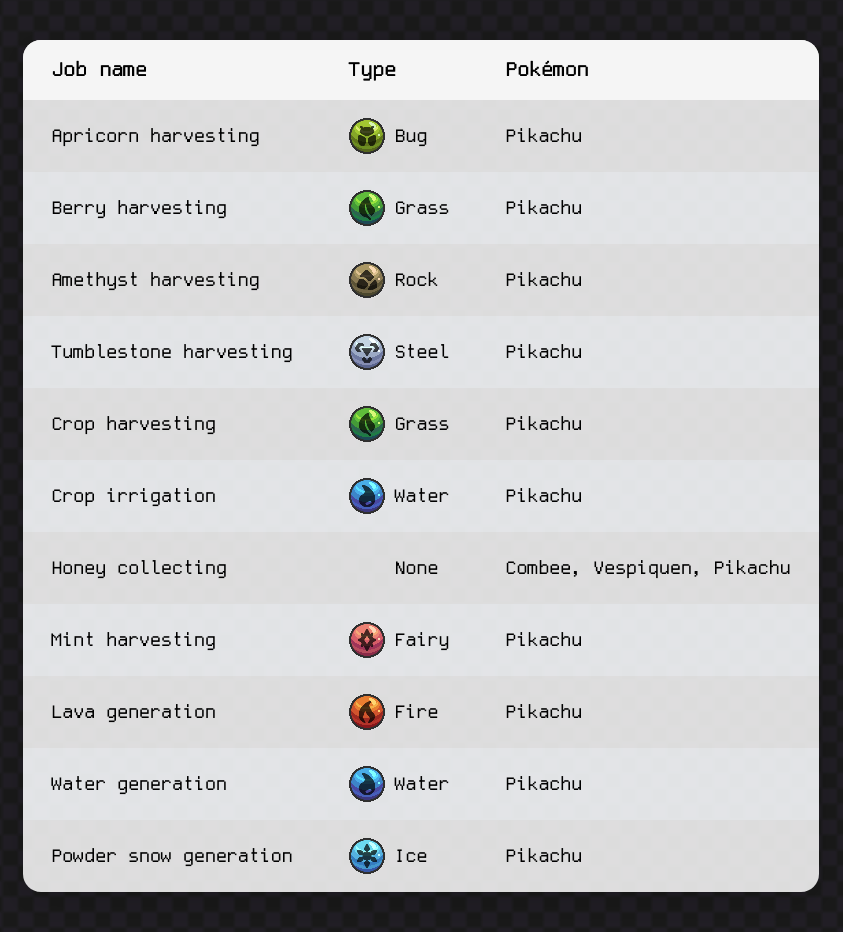
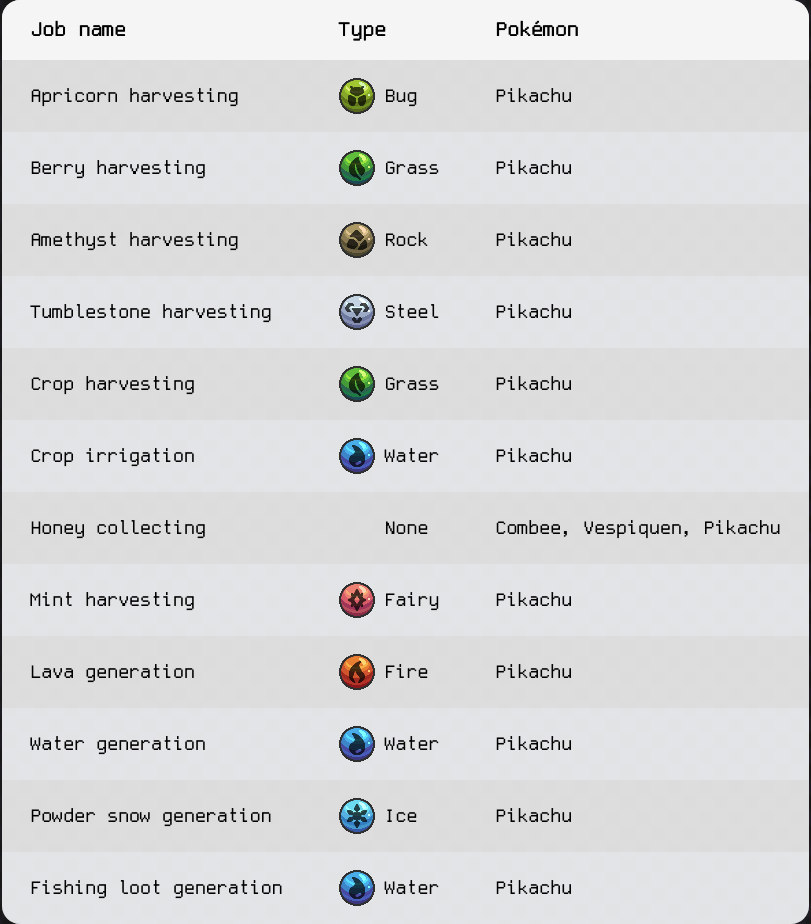
Update infographic

diff --git a/common/src/main/resources/assets/cobbleworkers/infographic/index.html b/common/src/main/resources/assets/cobbleworkers/infographic/index.html
@@ -124,6 +124,11 @@
 				<td class="type-cell"><span class="type-icon" data-type="Ice"></span>Ice</td>
 				<td>Pikachu</td>
 			</tr>
+			<tr>
+				<td>Fishing loot generation</td>
+				<td class="type-cell"><span class="type-icon" data-type="Water"></span>Water</td>
+				<td>Pikachu</td>
+			</tr>
 		</tbody>
 	</table>
 	<script>
